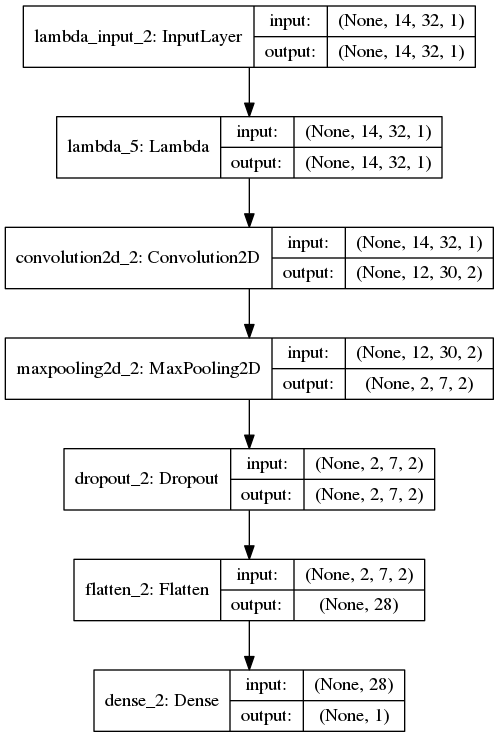
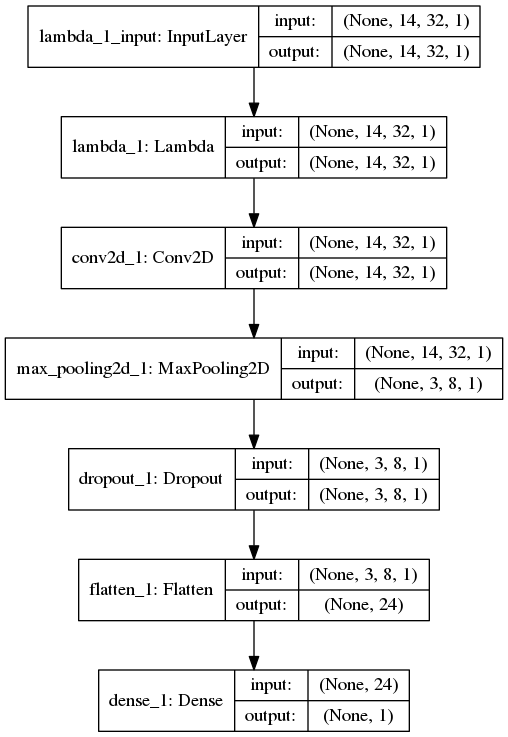
use only 27 params

diff --git a/CarND-BehavioralCloning-P3/model.py b/CarND-BehavioralCloning-P3/model.py
@@ -7,8 +7,8 @@ from sklearn.utils import shuffle
 from keras.models import *
 from keras.layers import *
 from keras.optimizers import Adam
-#from keras.utils import plot_model
-#from keras.utils.vis_utils import model_to_dot
+from keras.utils import plot_model
+from keras.utils.vis_utils import model_to_dot
 
 #preprocessed training data
 train_file = 'train.p'
@@ -34,8 +34,8 @@ if __name__ == '__main__':
 
 	model = Sequential([
 			Lambda(lambda x: x/127.5 - 1.,input_shape=(14, 32, 1)),
-			Conv2D(2, 3, 3, border_mode='valid', input_shape=(14, 32, 1), activation='relu'),
-			MaxPooling2D((5, 5),(4, 4),'valid'),
+			Conv2D(1, 1, 1, border_mode='valid', input_shape=(14, 32, 1), activation='relu'),
+			MaxPooling2D((4, 4),(4, 4),'valid'),
 			Dropout(0.25),
 			Flatten(),
 			Dense(1)
@@ -43,6 +43,7 @@ if __name__ == '__main__':
 
 	model.summary()
 	#plot_model(model, to_file='model.png', show_shapes = True)
+	
 	earlyStopping=keras.callbacks.EarlyStopping(monitor='val_loss', 
                                             patience=2, min_delta=0.0001, 
                                             verbose=0, mode='auto')
@@ -61,3 +62,4 @@ if __name__ == '__main__':
 		json_file.write(model.to_json())
 
 	print("Model Saved.")
+	
